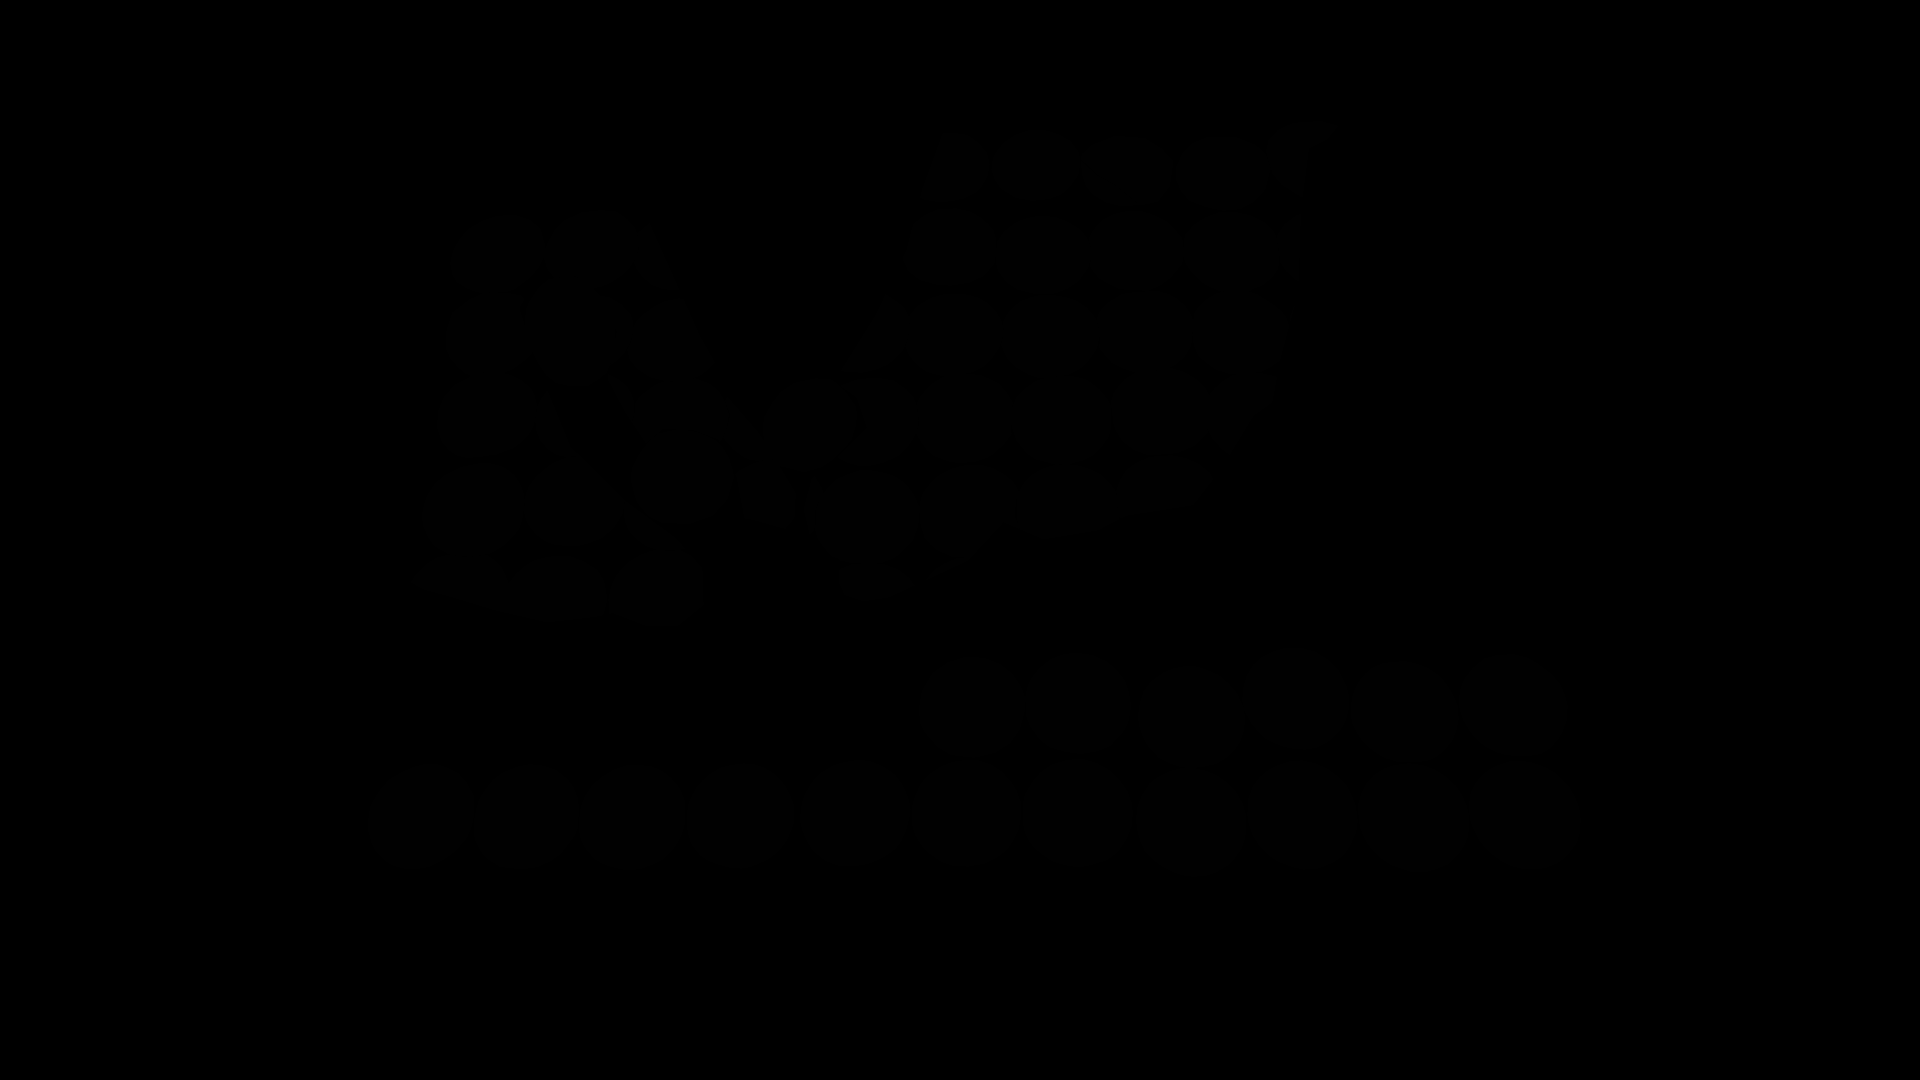
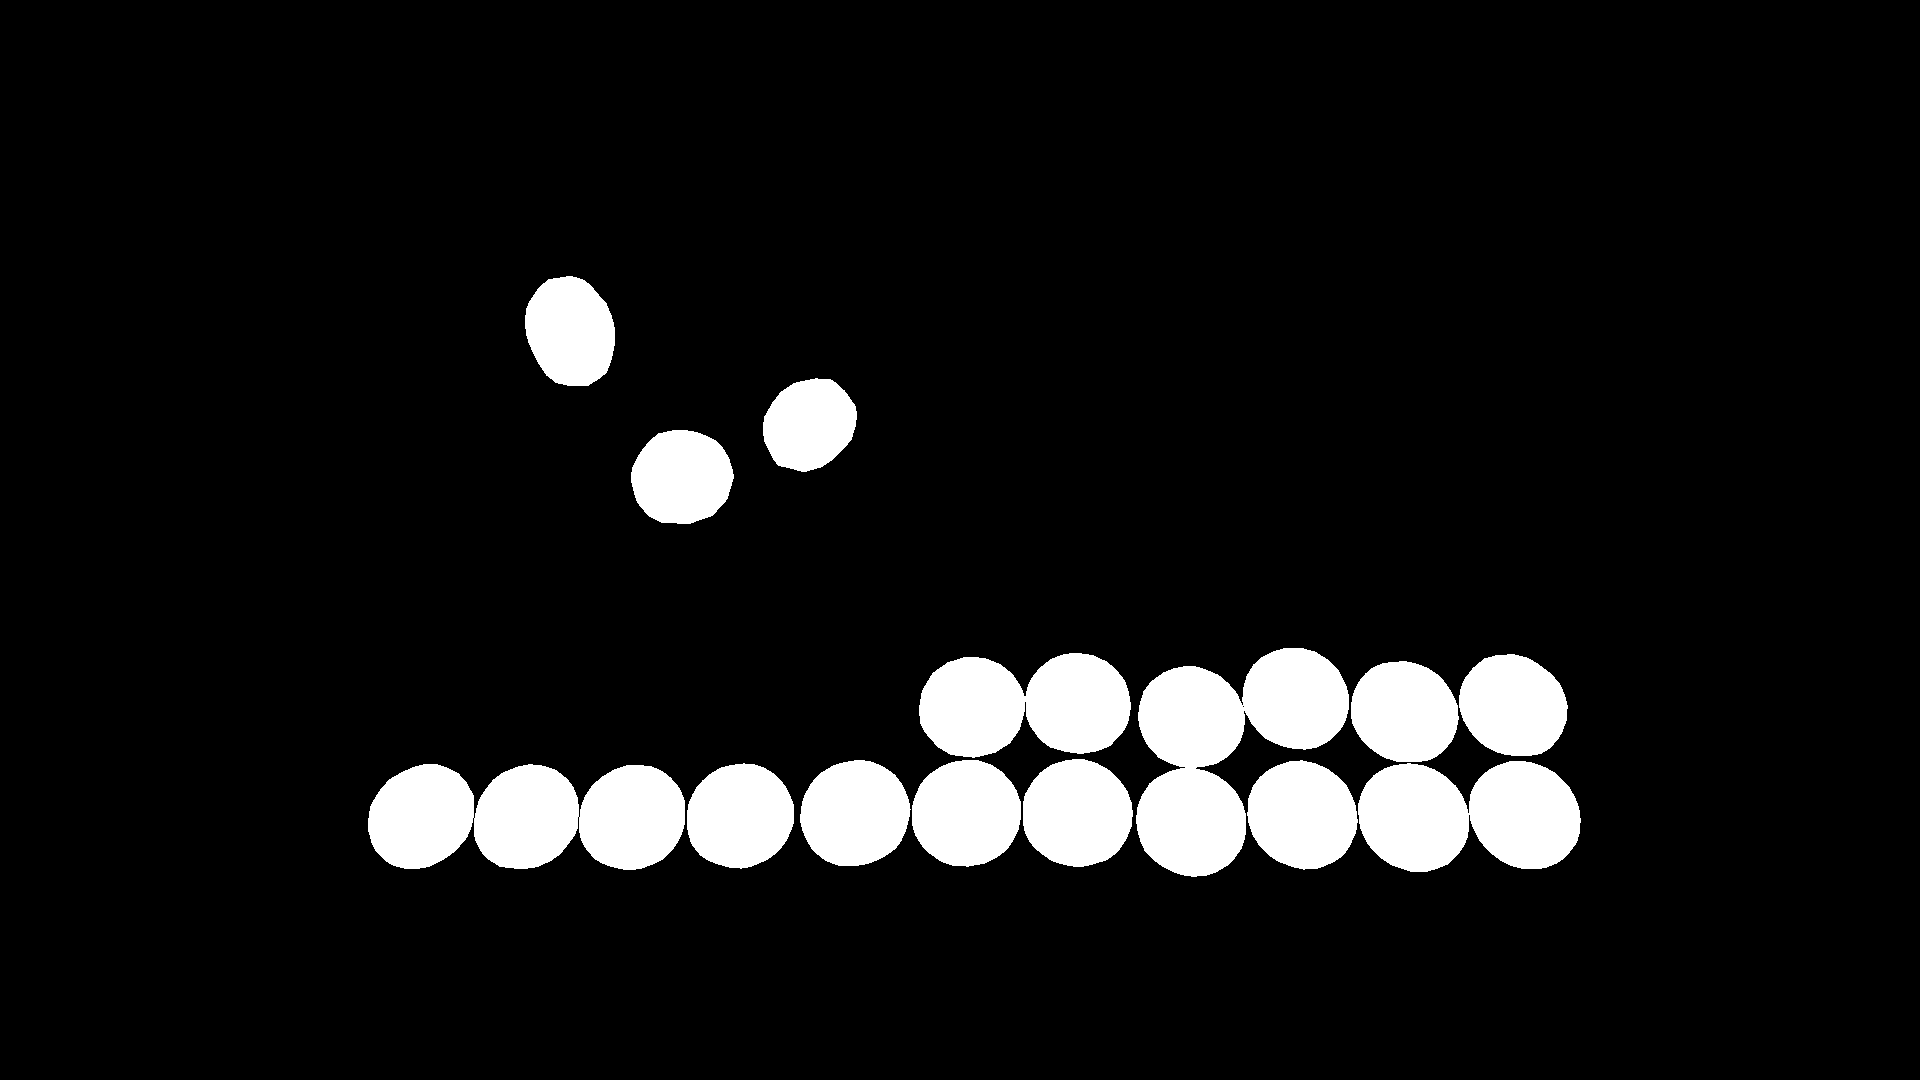
binary image instead of lowcontrast grayscale

Changed region(s): [[0.1875, 0.5806, 0.8438, 0.825], [0.3125, 0.3361, 0.4688, 0.4889], [0.25, 0.2444, 0.3438, 0.3667]]

diff --git a/pins/data/colorMapsToMasks.py b/pins/data/colorMapsToMasks.py
@@ -30,11 +30,11 @@ def main():
     colorMap = list(readColorMap(f'{labelDir}/colormap.txt'))
     pinOnlyColorMap = [
         (0, 'background', np.uint8([0, 0, 0]), np.uint8([0, 0, 0])),
-        (1, 'pin', np.uint8([128, 0, 0]), np.uint8([0, 0, 128]))
+        (255, 'pin', np.uint8([128, 0, 0]), np.uint8([0, 0, 128]))
     ]
     solderOnlyColorMap = [
         (0, 'background', np.uint8([0, 0, 0]), np.uint8([0, 0, 0])),
-        (1, 'pin_w_solder', np.uint8([0, 128, 0]), np.uint8([0, 128, 0]))
+        (255, 'pin_w_solder', np.uint8([0, 128, 0]), np.uint8([0, 128, 0]))
     ]
     for pngFile in enumerateColorMapsPngs(labelDir):
         print(pngFile)
@@ -45,20 +45,20 @@ def main():
         cv2.imwrite(maskFile, idImage)
 
         # pin-only
-        # idImage = colorLabel2labelIdImage(colorLabelsImage, pinOnlyColorMap)
-        # maskFile = 'pin_only_masks/' + pngFile
-        # cv2.imwrite(maskFile, idImage)
+        idImage = colorLabel2labelIdImage(colorLabelsImage, pinOnlyColorMap)
+        maskFile = 'pin_only_masks/' + pngFile
+        cv2.imwrite(maskFile, idImage)
 
         # solder-only
         idImage = colorLabel2labelIdImage(colorLabelsImage, solderOnlyColorMap)
         maskFile = 'solder_only_masks/' + pngFile
         cv2.imwrite(maskFile, idImage)
 
-def main():
-    im = cv2.imread('/home/trevol/HDD_DATA/Computer_Vision_Task/Computer_Vision_Task/frames_6_unet_pins_only/f_0042_2800.00_2.80.jpg')
-    print(im.dtype, im.min(), im.max())
+def main__():
+    # im = cv2.imread('/home/trevol/HDD_DATA/Computer_Vision_Task/Computer_Vision_Task/frames_6_unet_pins_only/f_0350_23333.33_23.33.png')
+    # print(im.dtype, im.min(), im.max())
 
-    im = cv2.imread('../../data/membrane/test/0_predict.png')
+    im = cv2.imread('../../data/membrane/train/label/0.png')
     print(im.dtype, im.min(), im.max())
 
 main()
